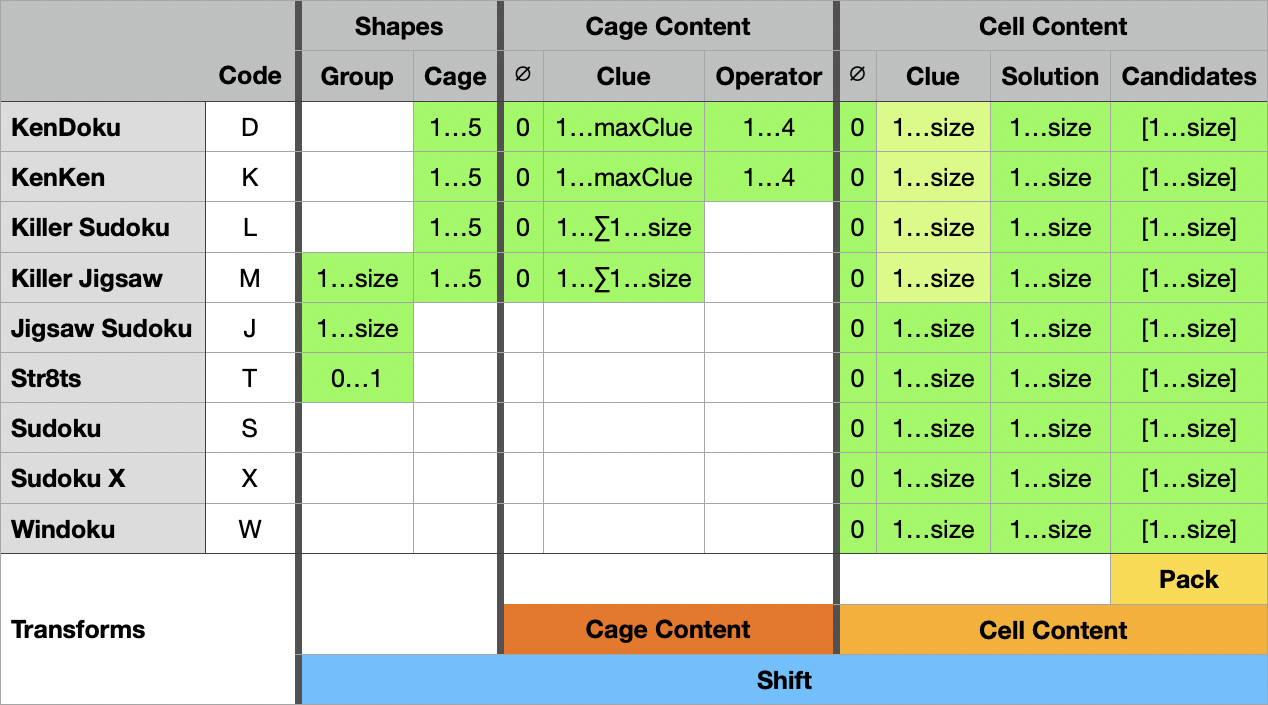
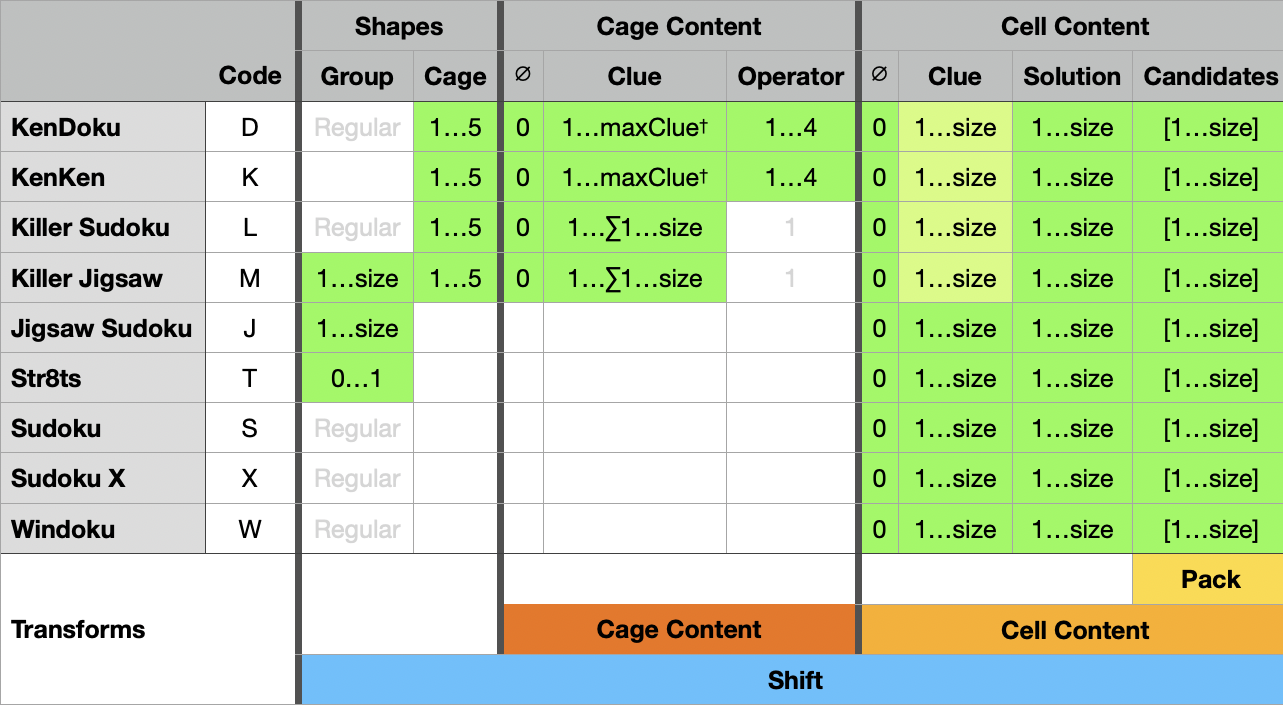
Update documentation

diff --git a/Sources/PuzzleCoding/Documentation.docc/CageContentTransform.md b/Sources/PuzzleCoding/Documentation.docc/CageContentTransform.md
@@ -15,12 +15,12 @@ There are two aspects to describing cages. We have to describe both the <doc:Sha
     @Column {
         Notice that there are more empty cells than cells with clues. We take advantage of the empty
         cells to more efficiently utilize space by separating the clue from the operator. 
+
+        A cage clue, for example the 24 in A1 always appears in the first cell of the cage. 
     }
 }
 @Row {
     @Column {
-        A cage clue, for example the 24 in A1 always appears in the first cell of the cage. 
-        
         For KenDoku and KenKen the second cell of a cage (when there is more than one cell in the cage) contains the
         operator. 
         

diff --git a/Sources/PuzzleCoding/Documentation.docc/EncodingFormats.md b/Sources/PuzzleCoding/Documentation.docc/EncodingFormats.md
@@ -60,7 +60,7 @@ A sample header: `S9B`
 Every puzzle type has its own data requirements.
 
 ![Puzzle requirements table](PuzzleRequirements)
-*maxClue = min(size³ × (size−1) × (size−2), 2047)*
+*† [maxClue](<doc:CageContentTransform#Limitations>)*
 
 To read the table, find the row with the puzzle type in which you're interested. Then read across.
 

diff --git a/Sources/PuzzleCoding/Documentation.docc/CellContentTransform.md b/Sources/PuzzleCoding/Documentation.docc/CellContentTransform.md
@@ -49,7 +49,7 @@ else
 
 ```
 if input > maxValue
-    // error
+    error
 else if input > candidatesOffset
     candidates = unpack(input - candidatesOffset)
 else if input > solutionOffset
@@ -57,5 +57,5 @@ else if input > solutionOffset
 else if input > 0
     clue = input
 else
-    // empty
+    empty
 ```
